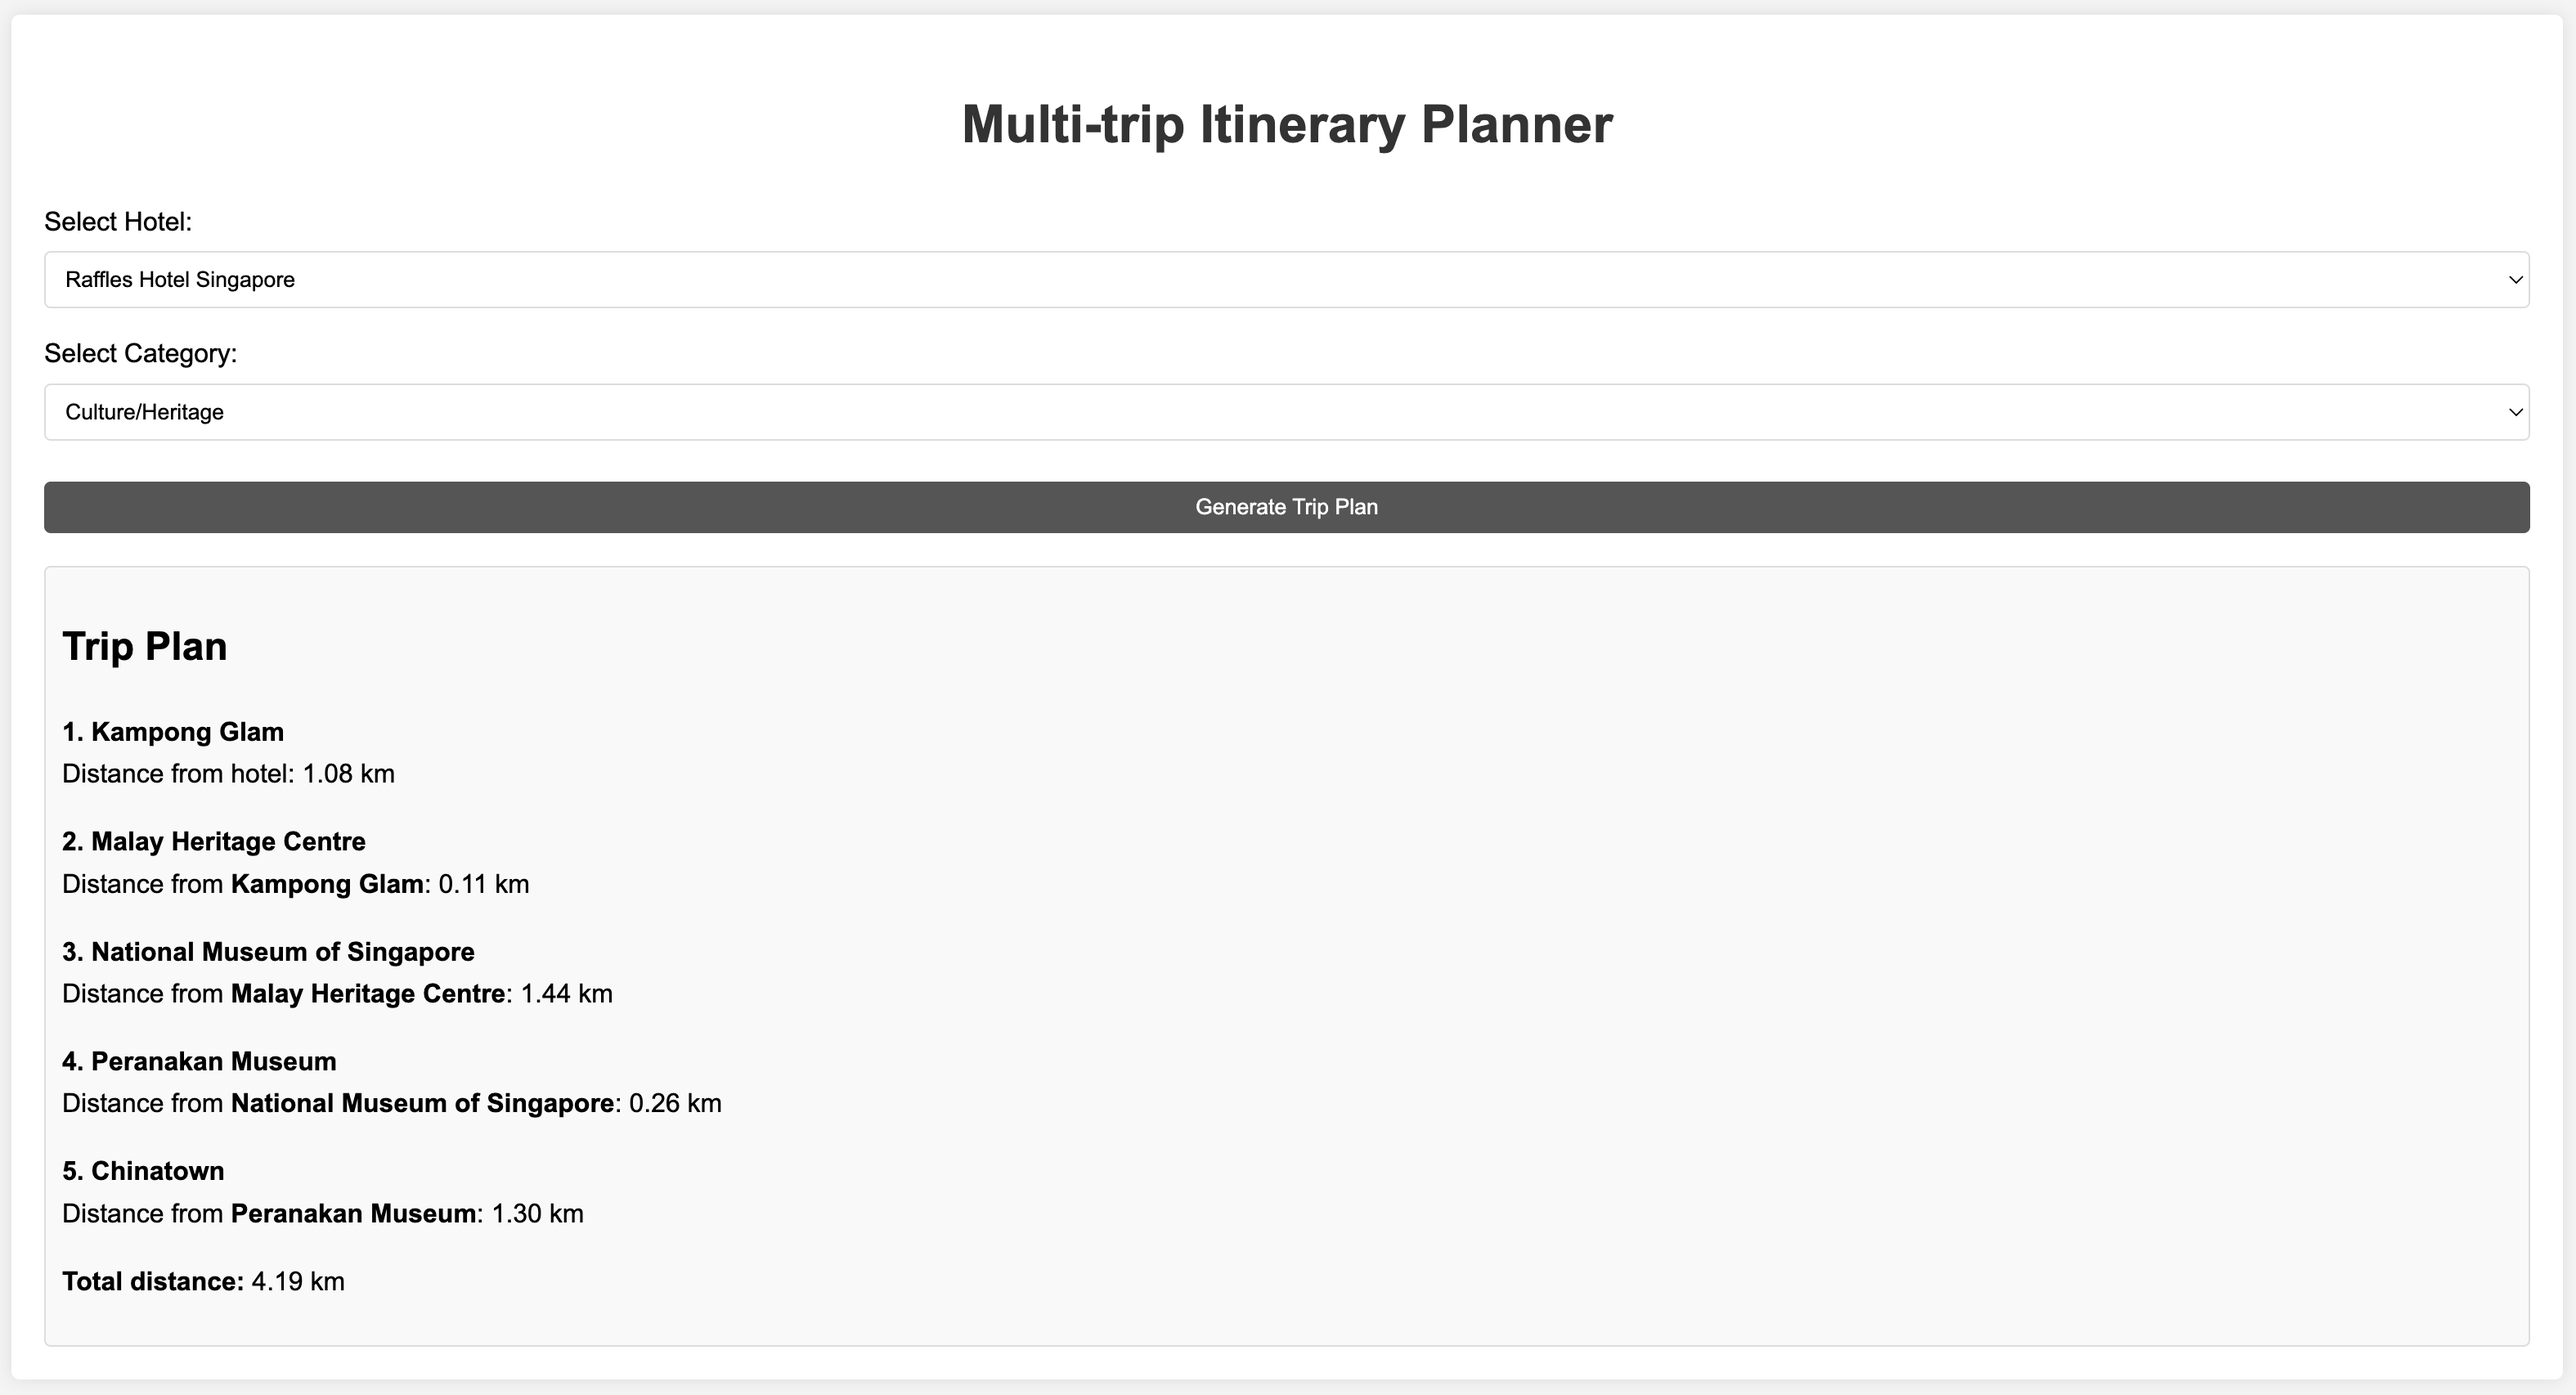
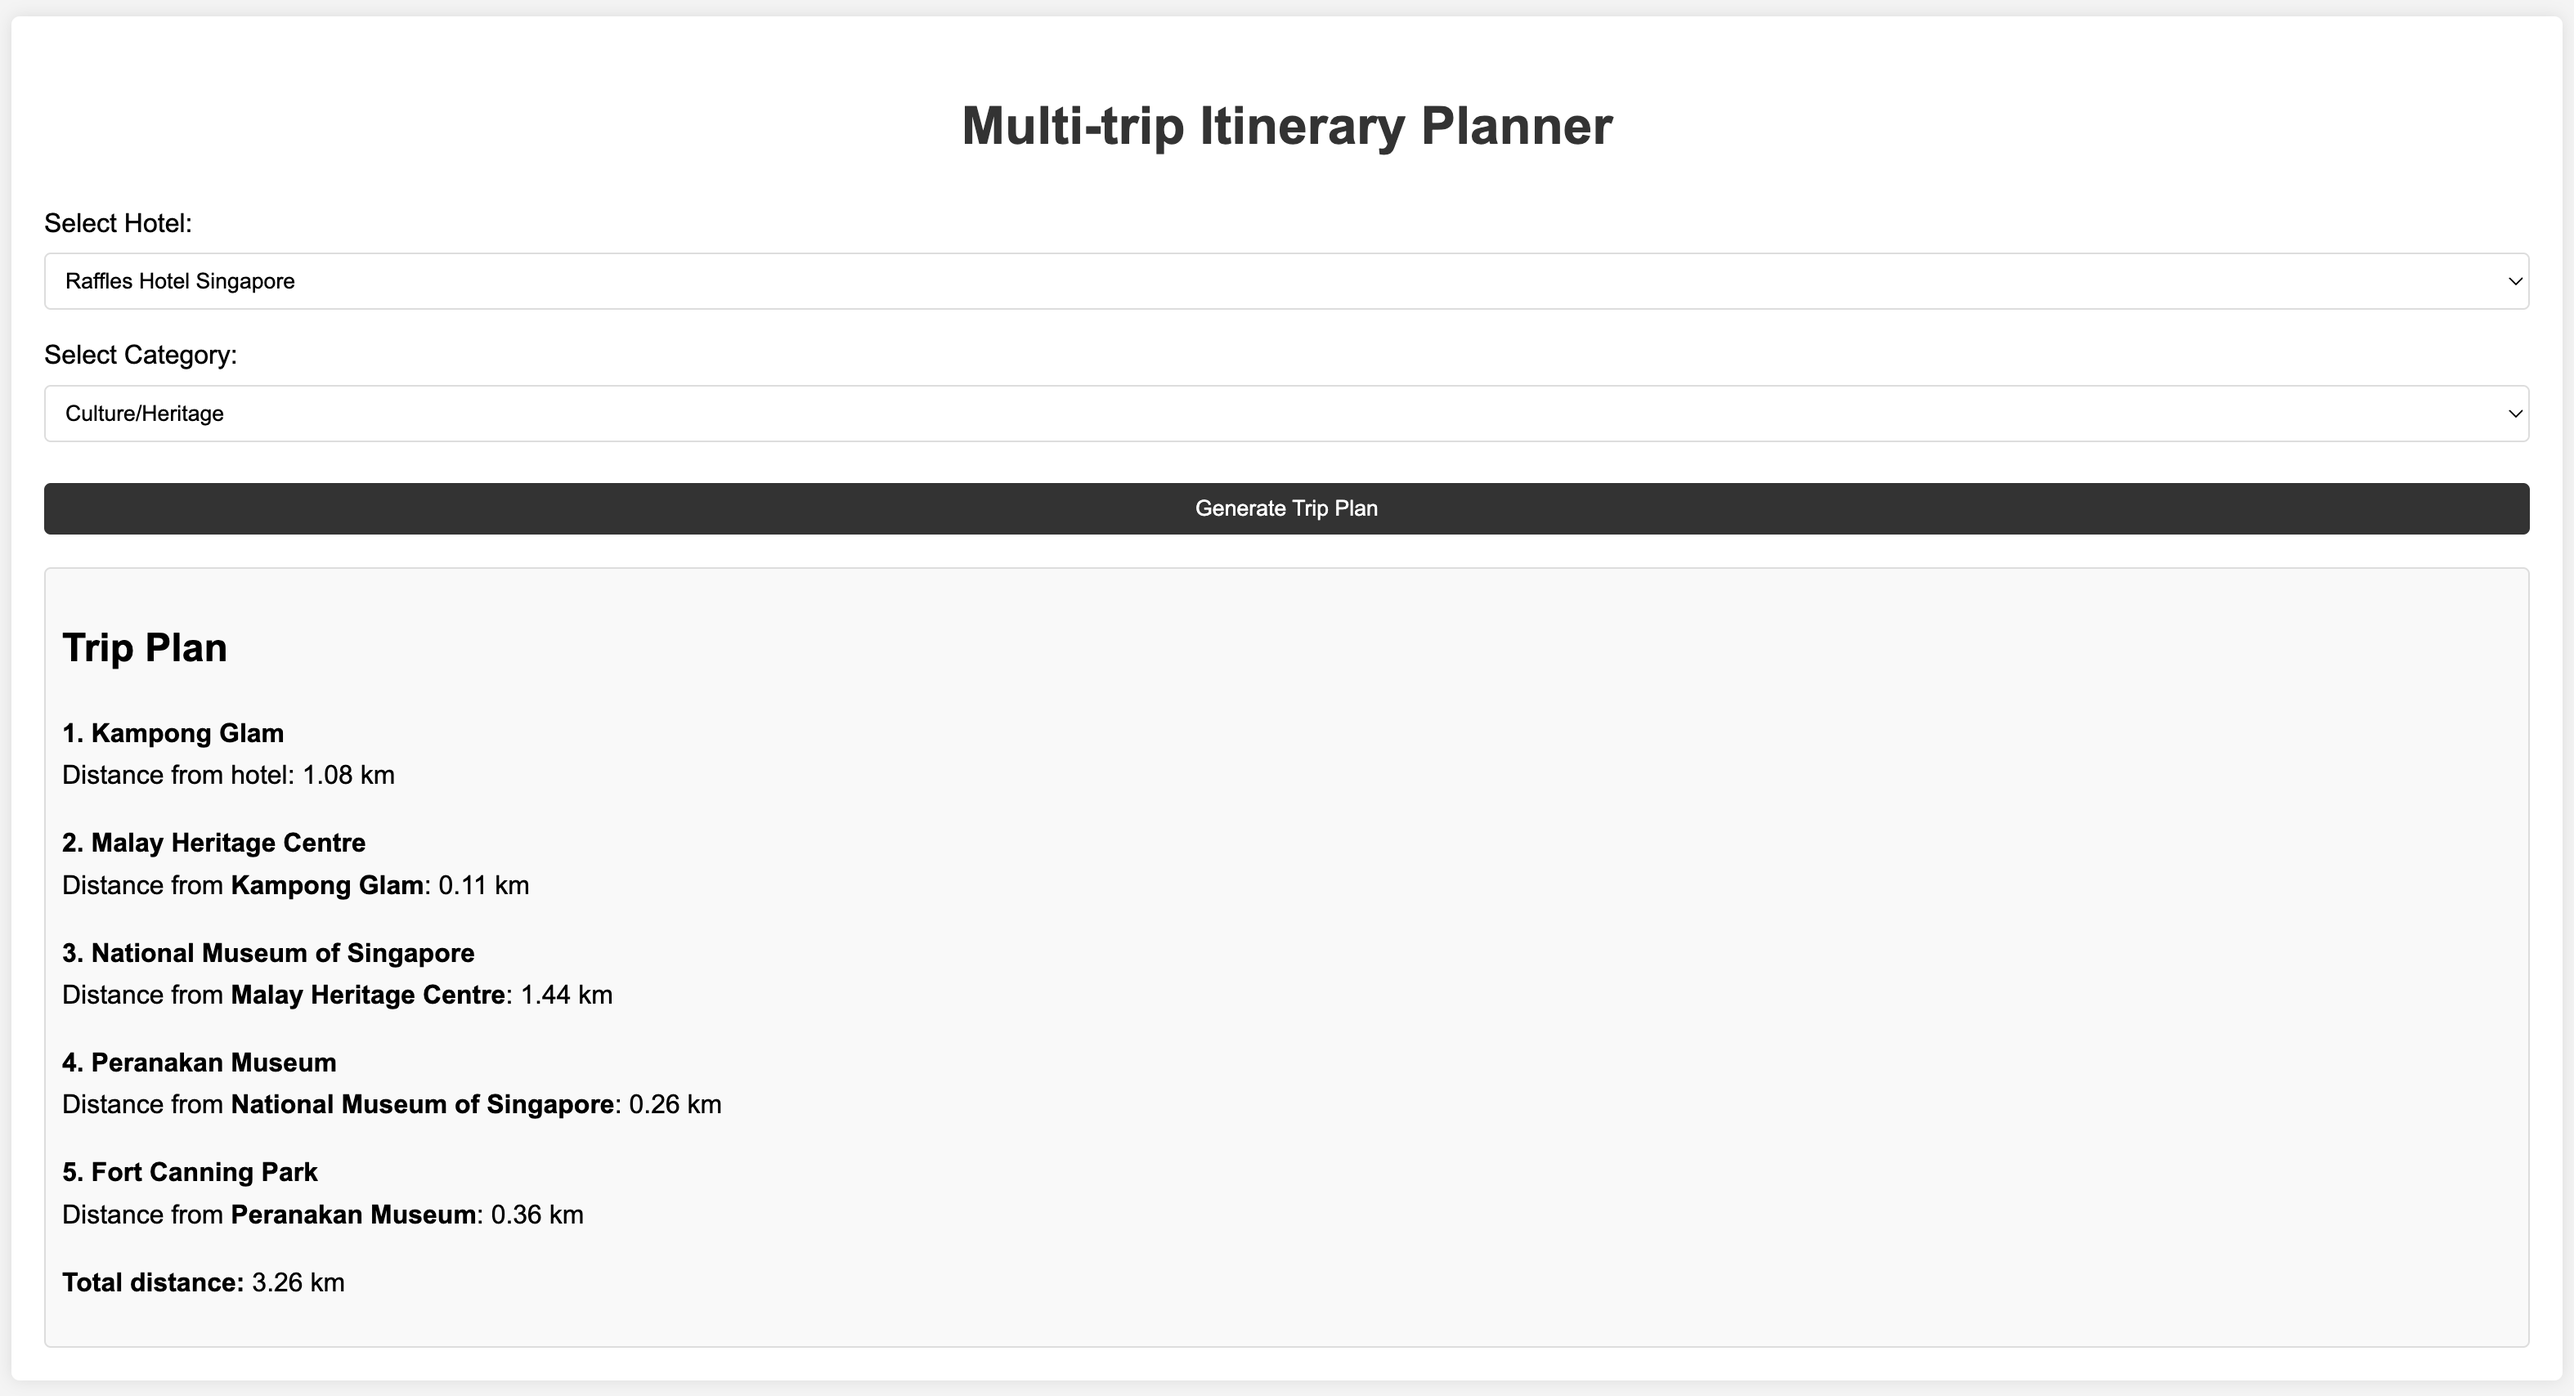
fix: incorrect last spot calculation

diff --git a/plan_trip_usecase.py b/plan_trip_usecase.py
@@ -1,7 +1,7 @@
 import heapq
 import sqlite3
 from copy import deepcopy
-from math import asin, atan2, cos, radians, sin, sqrt
+from math import asin, cos, radians, sin, sqrt
 from typing import Dict, List, Tuple
 
 from fastapi import HTTPException
@@ -132,10 +132,14 @@ class PlanTripUseCase:
                 # Heuristic (h): Distance from the neighbor to the nearest unvisited spot
                 # Here, the heuristic is simply the nearest unvisited spot
                 nearest_unvisited_spots = [
-                    n for n_id, n in all_eligible_places.items() if n_id not in visited and n_id != neighbor_id
+                    n
+                    for n_id, n in all_eligible_places.items()
+                    if n_id not in visited and n_id != neighbor_id
                 ]
 
-                if nearest_unvisited_spots:
+                # Because max destinations = 5, no need to look up nearest unvisited spots from neighbor if current node
+                #  is the 4th node.
+                if nearest_unvisited_spots and stops < (max_destinations - 2):
                     h = min(
                         haversine_formula(
                             neighbor["latitude"],
@@ -146,7 +150,7 @@ class PlanTripUseCase:
                         for n in nearest_unvisited_spots
                     )
                 else:
-                    h = 0  # All spots have been visited
+                    h = 0  # All spots have been visited or current node = node before last node.
 
                 # Total cost f = g + h
                 f = g + h

diff --git a/main.py b/main.py
@@ -44,9 +44,7 @@ def plan_trip(request: TripRequest):
     total_distance = itinerary[2]
 
     return TripPlan(
-        destinations=destinations,
-        distances=distances,
-        total_distance=total_distance
+        destinations=destinations, distances=distances, total_distance=total_distance
     )
 
 
